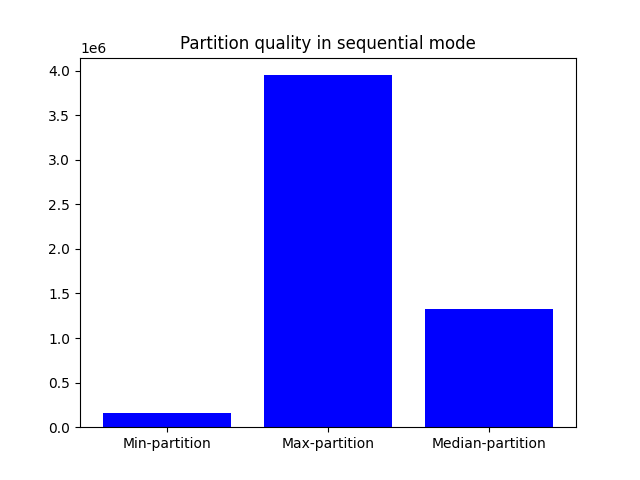
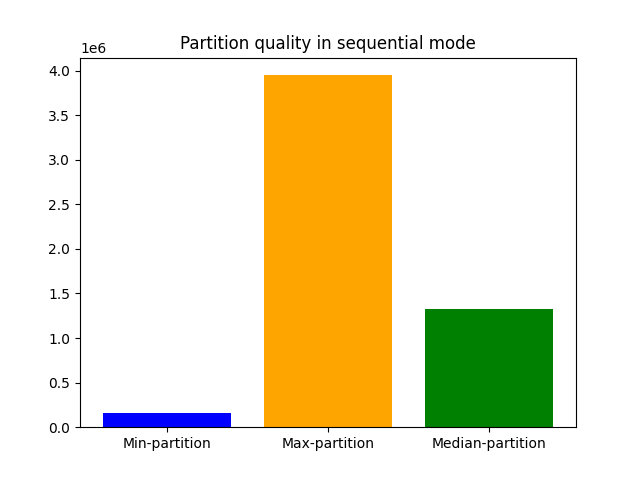
new colors in graphs

Changed region(s): [[0.4062, 0.1562, 0.625, 0.9062], [0.6562, 0.625, 0.875, 0.9062]]

diff --git a/testing-results/graph-a/part_quality_seq.py b/testing-results/graph-a/part_quality_seq.py
@@ -9,7 +9,7 @@ valori = [
 ]
 
 # Creazione del grafico a barre
-plt.bar(categorie, valori, color='blue')
+plt.bar(categorie, valori, color=['blue','orange','green'])
 
 # Aggiunta di etichette agli assi e titolo al grafico
 #plt.xlabel('Categorie')

diff --git a/testing-results/graph-b/part_quality_seq.py b/testing-results/graph-b/part_quality_seq.py
@@ -9,7 +9,7 @@ valori = [
 ]
 
 # Creazione del grafico a barre
-plt.bar(categorie, valori, color='blue')
+plt.bar(categorie, valori, color=['blue','orange','green'])
 
 # Aggiunta di etichette agli assi e titolo al grafico
 #plt.xlabel('Categorie')

diff --git a/testing-results/graph-c/part_quality_seq.py b/testing-results/graph-c/part_quality_seq.py
@@ -9,7 +9,7 @@ valori = [
 ]
 
 # Creazione del grafico a barre
-plt.bar(categorie, valori, color='blue')
+plt.bar(categorie, valori, color=['blue','orange','green'])
 
 # Aggiunta di etichette agli assi e titolo al grafico
 #plt.xlabel('Categorie')
